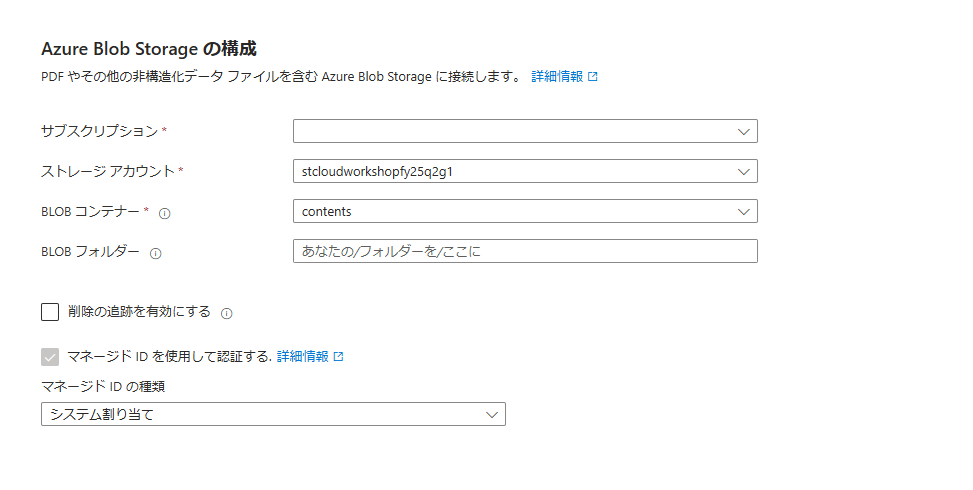
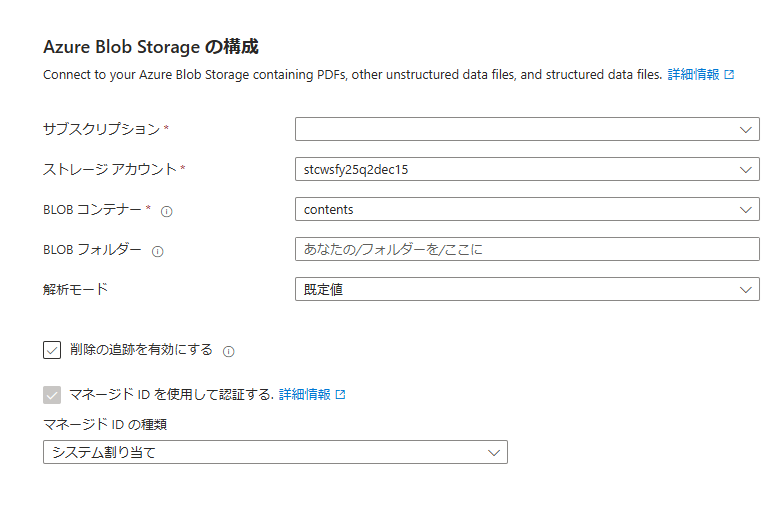
ベクトル インデックス作成時の Blob 構成の画像を差し替え

diff --git a/HOL-step-by-step-guide-3.md b/HOL-step-by-step-guide-3.md
@@ -201,6 +201,8 @@ Dec 2024
 
       - **BLOB コンテナー**: contents
 
+      - **解析モード**: 既定値
+
       - **マネージド ID を使用して認証する**: オン
 
       - **マネージド ID の種類**: システム割り当て
